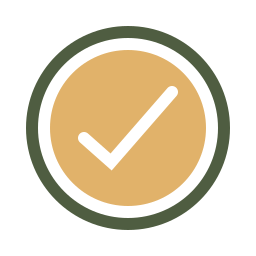
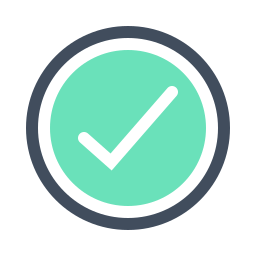
Update Ui.png in index.md Add minor aesthetic changes

diff --git a/src/main/java/dash/ui/TaskCard.java b/src/main/java/dash/ui/TaskCard.java
@@ -30,8 +30,8 @@ public class TaskCard extends UiPart<Region> {
     public final Task task;
 
     private int cardIndex = 0;
-    private Image checkmarkOrange = new Image("/images/checkmark.png", 20, 20, false, true);
-    private Image checkmarkGrey = new Image("/images/checkmark_greyed.png", 20, 20, false, true);
+    private Image checkmarkDone = new Image("/images/checkmark.png", 20, 20, false, true);
+    private Image checkmarkNotDone = new Image("/images/checkmark_greyed.png", 20, 20, false, true);
     private Image tag = new Image("/images/tag.png", 20, 20, false, true);
     private Image tagGrey = new Image("/images/tag_greyed.png", 20, 20, false, true);
     private Image contact = new Image("/images/contact.png", 20, 20, false, true);
@@ -77,7 +77,7 @@ public class TaskCard extends UiPart<Region> {
         this.cardIndex = displayedIndex;
         desc.setText(task.getTaskDescription().description);
 
-        ImageView checkmark = new ImageView(checkmarkGrey);
+        ImageView checkmark = new ImageView(checkmarkNotDone);
         completionStatus.setText(" ");
         completionStatus.setGraphic(checkmark);
 
@@ -118,20 +118,14 @@ public class TaskCard extends UiPart<Region> {
     }
 
     public void setAsComplete() {
-        if (this.cardIndex % 2 == 0) {
-            this.cardPane.setStyle("-fx-background-color: #c7ab91;");
-        } else {
-            this.cardPane.setStyle("-fx-background-color: #e0c1a4;");
-        }
-
-        this.desc.setStyle("-fx-text-fill: #878787;");
-        this.id.setStyle("-fx-text-fill: #878787;");
-        ImageView checkmark = new ImageView(checkmarkOrange);
+        this.desc.setStyle("-fx-opacity:0.5;");
+        this.id.setStyle("-fx-opacity:0.5;");
+        ImageView checkmark = new ImageView(checkmarkDone);
         completionStatus.setText("");
         completionStatus.setGraphic(checkmark);
 
-        this.date.setStyle("-fx-text-fill: #878787;");
-        this.time.setStyle("-fx-text-fill: #878787;");
+        this.date.setStyle("-fx-opacity:0.5;");
+        this.time.setStyle("-fx-opacity:0.5;");
 
         this.tags.setStyle("-fx-opacity:0.5;");
         ImageView tagIconGrey = new ImageView(tagGrey);

diff --git a/src/main/java/dash/ui/HelpPanel.java b/src/main/java/dash/ui/HelpPanel.java
@@ -9,6 +9,8 @@ import javafx.collections.ObservableList;
 import javafx.fxml.FXML;
 import javafx.scene.control.Button;
 import javafx.scene.control.Label;
+import javafx.scene.image.Image;
+import javafx.scene.image.ImageView;
 import javafx.scene.input.Clipboard;
 import javafx.scene.input.ClipboardContent;
 import javafx.scene.layout.GridPane;
@@ -23,6 +25,7 @@ public class HelpPanel extends UiPart<Region> {
     private static final String HELP_CONTENT = "Acceptable Date/Time formats:\n"
             + "Date: dd/MM/yyyy , dd-MM-yyyy , yyyy/MM/dd , yyyy-MM-dd, dd MMM yyyy\n"
             + "Time: HHmm , hh:mm a\n\n"
+            + "Icons and graphics taken from https://icons8.com/\n"
             + "For more detailed information,"
             + " visit our User Guide or Developer Guide by clicking the buttons below to copy \n"
             + "their URLs. \n\n";
@@ -89,6 +92,8 @@ public class HelpPanel extends UiPart<Region> {
 
     private final Logger logger = LogsCenter.getLogger(HelpPanel.class);
 
+    private Image banner = new Image("/images/banner.png");
+
     private ResultDisplay resultDisplay;
 
     @FXML
@@ -96,6 +101,9 @@ public class HelpPanel extends UiPart<Region> {
 
     @FXML
     private Label helpContent;
+
+    @FXML
+    private Label bannerLabel;
 
     @FXML
     private GridPane commandContainer;
@@ -114,6 +122,9 @@ public class HelpPanel extends UiPart<Region> {
         super(FXML);
         this.resultDisplay = resultDisplay;
         helpContent.setText(HELP_CONTENT);
+        ImageView bannerImageView = new ImageView(banner);
+        bannerLabel.setText(" ");
+        bannerLabel.setGraphic(bannerImageView);
     }
 
     /**

diff --git a/src/main/java/dash/ui/MainWindow.java b/src/main/java/dash/ui/MainWindow.java
@@ -139,9 +139,9 @@ public class MainWindow extends UiPart<Stage> {
         helpListPanelGeneral = new HelpListPanel(helpPanel.initialiseHelpListGeneral());
         helpListPanelContact = new HelpListPanel(helpPanel.initialiseHelpListContact());
         helpListPanelTask = new HelpListPanel(helpPanel.initialiseHelpListTask());
-        helpPanel.getCommandContainer().add(helpListPanelGeneral.getRoot(), 0, 1);
-        helpPanel.getCommandContainer().add(helpListPanelContact.getRoot(), 0, 4);
-        helpPanel.getCommandContainer().add(helpListPanelTask.getRoot(), 0, 7);
+        helpPanel.getCommandContainer().add(helpListPanelGeneral.getRoot(), 0, 2);
+        helpPanel.getCommandContainer().add(helpListPanelContact.getRoot(), 0, 5);
+        helpPanel.getCommandContainer().add(helpListPanelTask.getRoot(), 0, 8);
         tabMenu.getHelpGridPane().add(helpPanel.getRoot(), 0, 1);
 
         CommandBox commandBox = new CommandBox(this::executeCommand);

diff --git a/docs/index.md b/docs/index.md
@@ -7,6 +7,7 @@ title: Dash
 [![codecov](https://codecov.io/gh/AY2122S1-CS2103T-W15-2/tp/branch/master/graph/badge.svg?token=KW5G0PDRBK)](https://codecov.io/gh/AY2122S1-CS2103T-W15-2/tp)
 
 ![Ui](images/Ui.png)
+![Banner](images/banner.png)
 
 Dash is a desktop application that acts as a *Dash*board for managing your contacts and tasks.  
 Dash is a GUI application, but is mainly CLI(Command Line Interface) based in order to emphasise speed.
